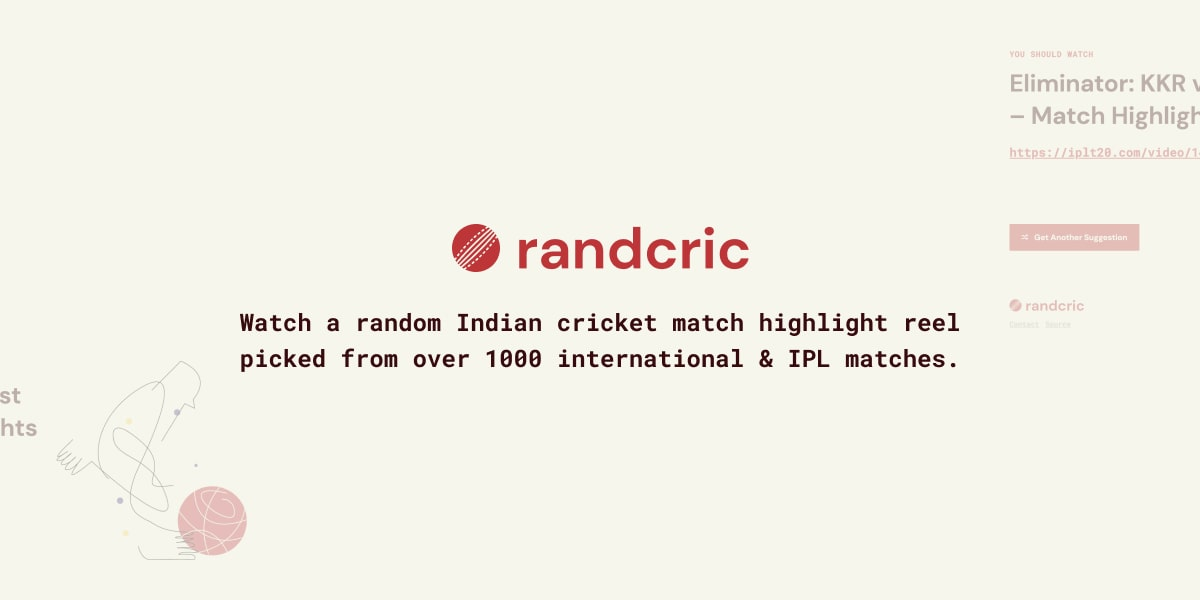
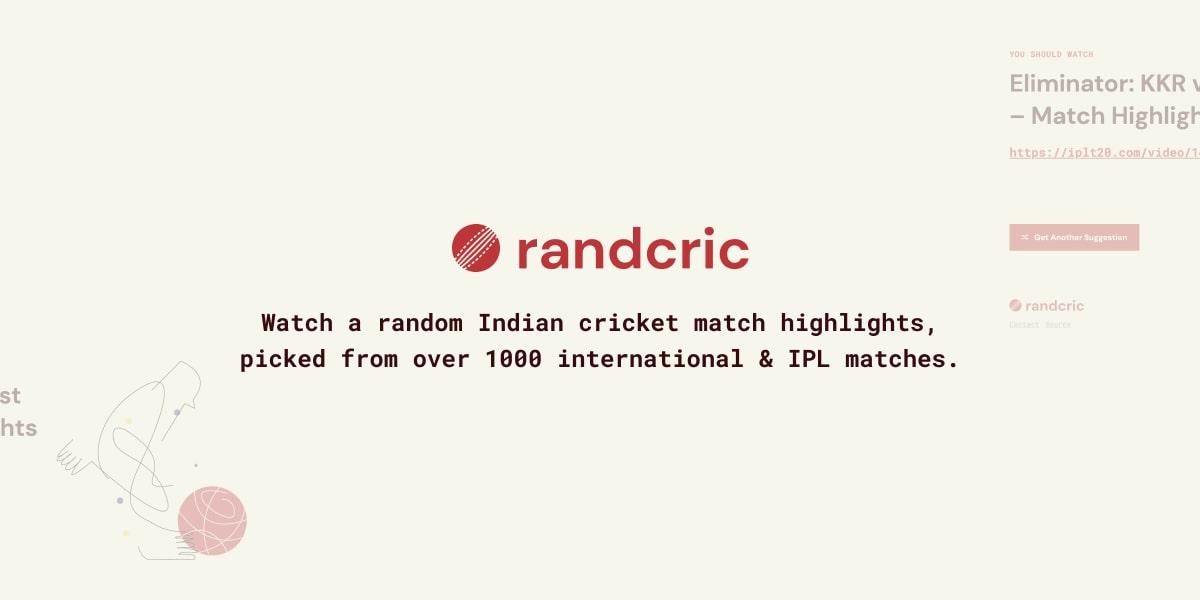
update meta

Changed region(s): [[0.185, 0.51, 0.8017, 0.57]]

diff --git a/index.html b/index.html
@@ -11,7 +11,25 @@
     <title>Randcric — Random Indian cricket highlights</title>
     <meta name="title" content="Randcric — Random Indian cricket highlights">
     <meta name="description"
-        content="Watch a random cricket match highlight reel picked from over 1000 international & IPL matches.">
+        content="Watch a random indian cricket match highlights, picked from over 1000 international & IPL matches.">
+
+    <!-- Open Graph / Facebook -->
+    <meta property="og:type" content="website">
+    <meta property="og:url" content="https://thelittlewonder.github.io/randcric/">
+    <meta property="og:title" content="Randcric — Random Indian cricket highlights">
+    <meta property="og:description"
+        content="Watch a random indian cricket match highlights, picked from over 1000 international & IPL matches.">
+    <meta property="og:image"
+        content="https://metatags.io/assets/meta-tags-16a33a6a8531e519cc0936fbba0ad904e52d35f34a46c97a2c9f6f7dd7d336f2.png">
+
+    <!-- Twitter -->
+    <meta property="twitter:card" content="summary_large_image">
+    <meta property="twitter:url" content="https://thelittlewonder.github.io/randcric/">
+    <meta property="twitter:title" content="Randcric — Random Indian cricket highlights">
+    <meta property="twitter:description"
+        content="Watch a random indian cricket match highlights, picked from over 1000 international & IPL matches.">
+    <meta property="twitter:image"
+        content="https://metatags.io/assets/meta-tags-16a33a6a8531e519cc0936fbba0ad904e52d35f34a46c97a2c9f6f7dd7d336f2.png">
     <meta name="viewport" content="width=device-width, initial-scale=1.0">
     <meta name="theme-color" content="#BD3538" />
     <link rel="stylesheet" href="index.css">
